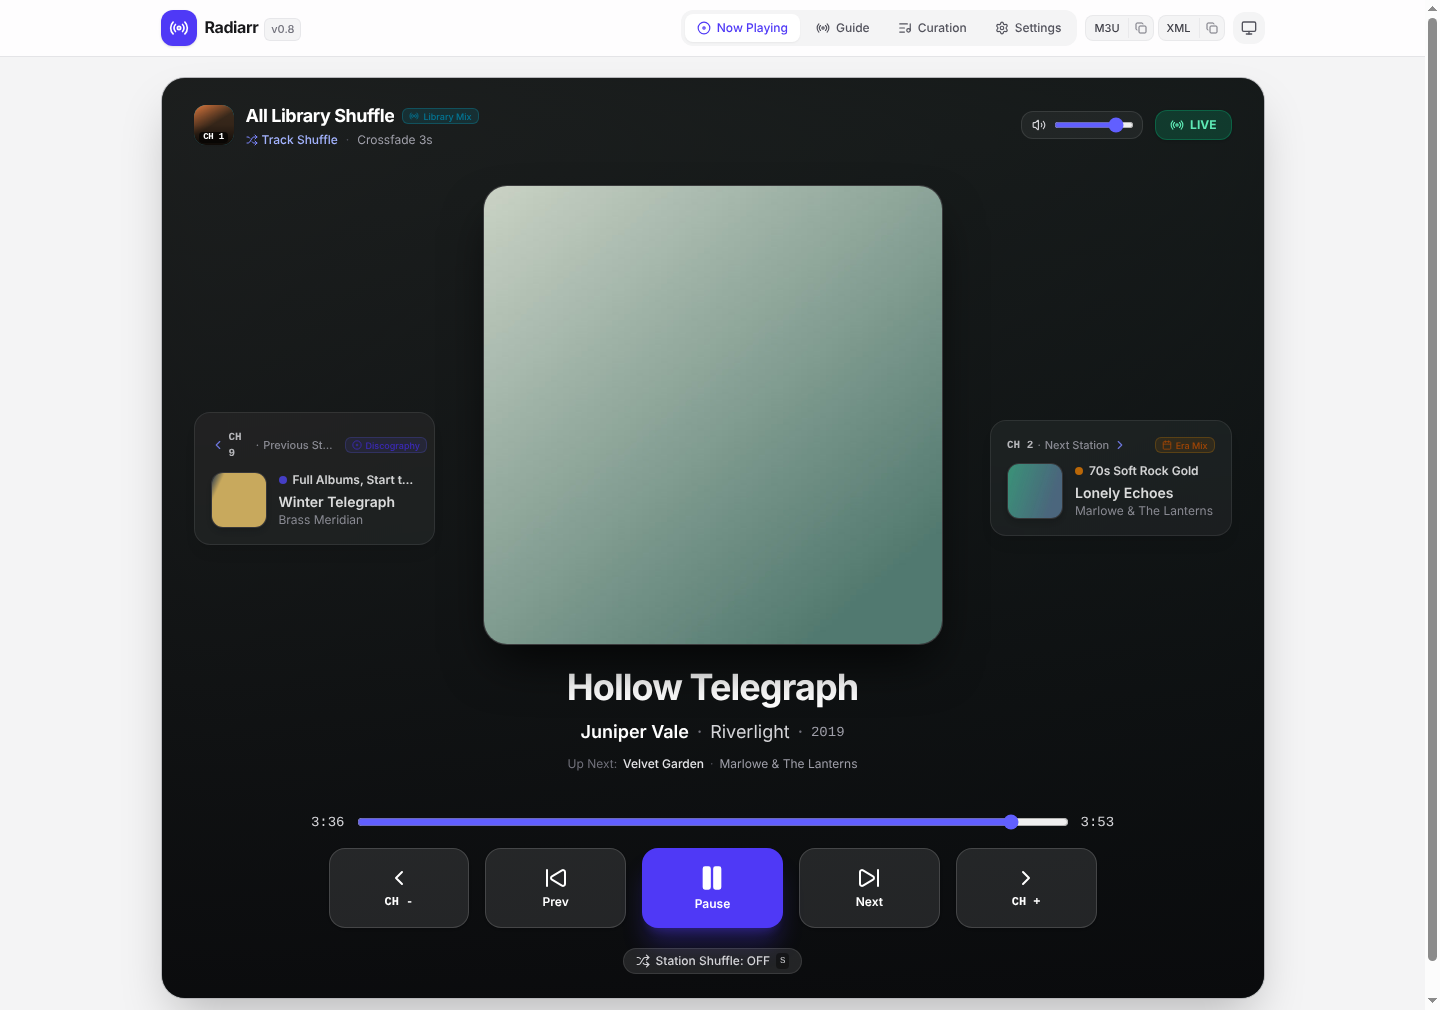
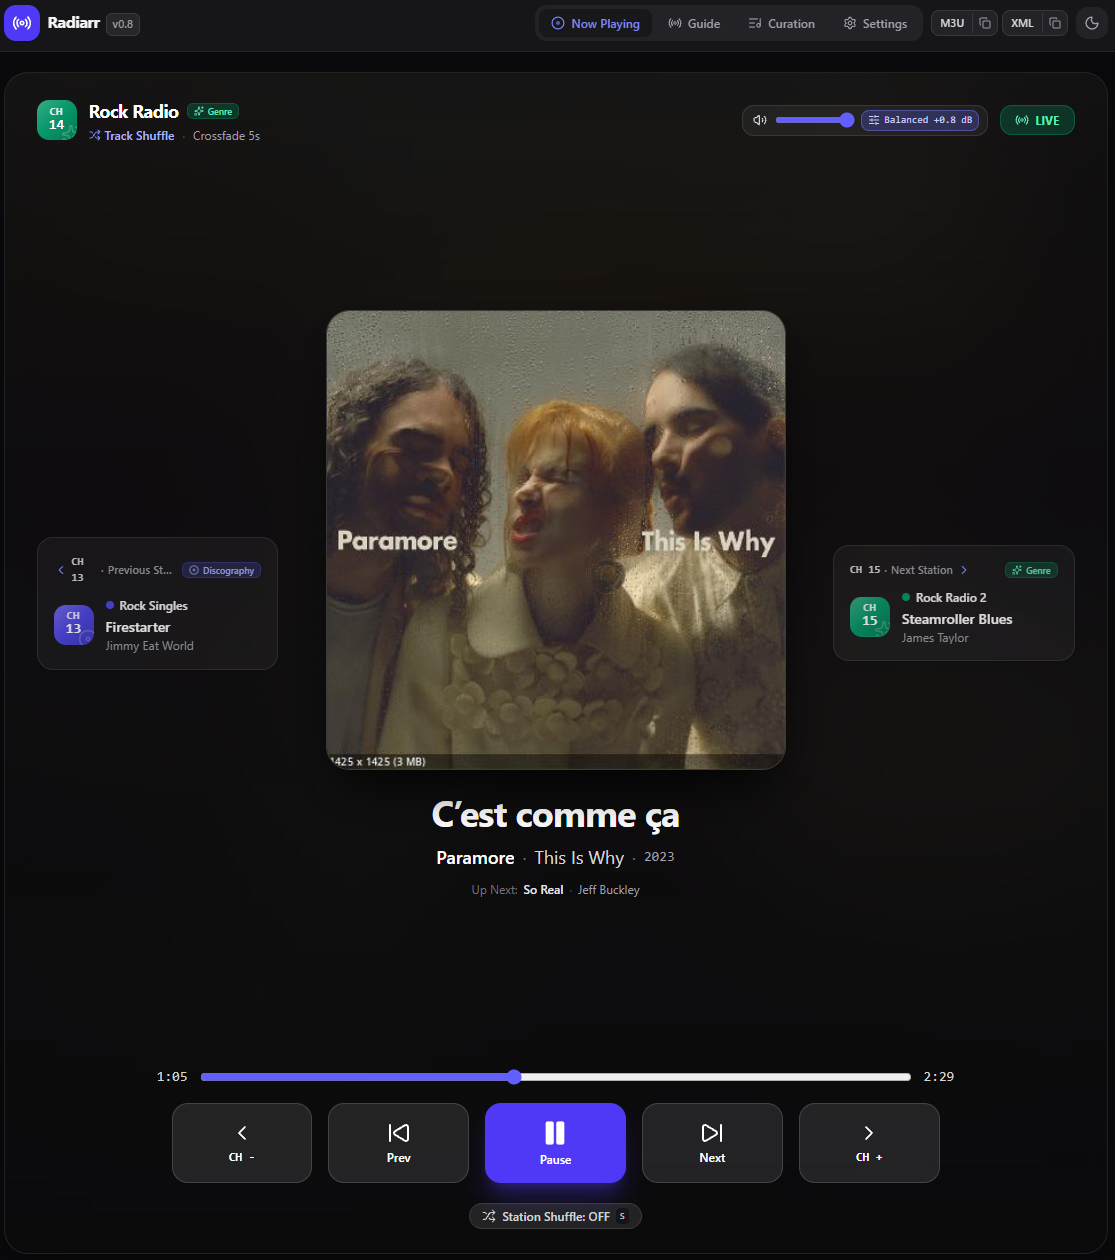
ci: publish Docker image to GHCR, clearer installer names, real screenshots
- Add workflow that publishes ghcr.io/peanutismint/radiarr on every merge
  to main (:latest) and on version tags; pull requests build without publishing
- Name desktop downloads by platform and type (Installer vs Portable,
  macOS arm64 vs x64)
- README: use the published image, explain installer vs portable,
  replace demo screenshots with real ones

diff --git a/README.md b/README.md
@@ -6,7 +6,10 @@
 [![Version](https://img.shields.io/badge/version-v0.8.0-indigo.svg)](https://github.com/peanutismint/radiarr/releases)
 [![Platform](https://img.shields.io/badge/platform-Docker%20%7C%20Windows%20%7C%20macOS%20%7C%20Linux-emerald.svg)](#install)
 
-![The Radiarr guide, showing nine stations and what each is playing right now](docs/screenshots/guide.png)
+| Guide | Now Playing | Station editor |
+| :---: | :---: | :---: |
+| ![The guide, showing every station and what each is playing right now](docs/screenshots/guide.png) | ![Now Playing, with the neighbouring stations one click away](docs/screenshots/now-playing.png) | ![Editing a station's rules, with a live count of matching tracks](docs/screenshots/edit-station.png) |
+| See what's on every station | Flip stations like a car radio | Build stations from simple rules |
 
 ## Contents
 
@@ -31,11 +34,6 @@ You spent years building a music collection. So why do you still end up:
 Radiarr is like [Tunarr](https://github.com/chrisbenincasa/tunarr), but for music. You describe the stations you want ("70s soft rock", "everything by Led Zeppelin in order", "chill in the morning, loud in the afternoon") and Radiarr keeps them on air forever. Tune in and you land mid-song, exactly where that station is on the clock. Don't like the song? Flip to the next station, the way you would in a car.
 
 ## Features
-
-| | |
-| :--- | :--- |
-| ![Now Playing view](docs/screenshots/now-playing.png) | ![Station curation view](docs/screenshots/curation.png) |
-| **Now Playing**, with the neighbouring stations one click away | **Curation**, where you build and reorder your dial |
 
 **📻 Stations that are always on.** Every station follows a fixed timeline worked out from the clock, not from a running process. Nothing plays, and no CPU is used, until you tune in. Open Radiarr on two devices and they play the same song at the same moment.
 
@@ -70,20 +68,34 @@ There are two ways to run Radiarr. Both give you the same app.
 
 ### Option 1: Docker
 
-```bash
-git clone https://github.com/peanutismint/radiarr.git
-cd radiarr
+Save this as `docker-compose.yml`, changing `/path/to/your/music` to your music folder (delete that line if you only use Plex):
+
+```yaml
+services:
+  radiarr:
+    image: ghcr.io/peanutismint/radiarr:latest
+    container_name: radiarr
+    restart: unless-stopped
+    ports:
+      - "8484:8484"
+    environment:
+      - TZ=America/Los_Angeles   # your timezone
+    volumes:
+      - ./config:/config
+      - /path/to/your/music:/music:ro
 ```
 
-Open `docker-compose.yml` and change `/path/to/your/music` to your music folder (you can skip this if you only use Plex). Then:
+Then start it:
 
 ```bash
-docker compose up -d --build
+docker compose up -d
 ```
 
 Open `http://localhost:8484`, or `http://<your-server-ip>:8484` from another device.
 
-If your music is on a network share, see `docker-compose.nas-example.yml`.
+To update later, run `docker compose pull` followed by `docker compose up -d`. The image works on regular PCs and servers, and on ARM devices such as a Raspberry Pi.
+
+If your music is on a network share, see `docker-compose.nas-example.yml`. To build the image yourself instead, clone this repo and run `docker compose up -d --build`.
 
 ### Option 2: Desktop app (Windows, macOS, Linux)
 
@@ -91,10 +103,11 @@ Download the installer for your system from [**Releases**](https://github.com/pe
 
 | System | File to download |
 | :--- | :--- |
-| Windows 10 / 11 | The `Setup` `.exe` (or the portable `.exe` if you prefer not to install) |
-| macOS, Apple Silicon (M1 or newer) | The `.dmg` with `arm64` in its name |
-| macOS, Intel | The `.dmg` without `arm64` in its name |
-| Linux | The `.AppImage`, or the `.deb` for Debian and Ubuntu |
+| Windows 10 / 11 | `Radiarr-x.x.x-Windows-Installer.exe` installs Radiarr with Start menu and desktop shortcuts. Recommended for most people. |
+| Windows, no install | `Radiarr-x.x.x-Windows-Portable.exe` runs straight from wherever you save it, for example a USB stick. Nothing is installed. |
+| macOS, Apple Silicon (M1 or newer) | `Radiarr-x.x.x-macOS-arm64.dmg` |
+| macOS, Intel | `Radiarr-x.x.x-macOS-x64.dmg` |
+| Linux | `Radiarr-x.x.x-Linux.AppImage`, or `Radiarr-x.x.x-Linux.deb` for Debian and Ubuntu |
 
 Not sure which Mac you have? Open the Apple menu and choose **About This Mac**. "Chip: Apple M..." means Apple Silicon. "Processor: Intel" means Intel.
 
